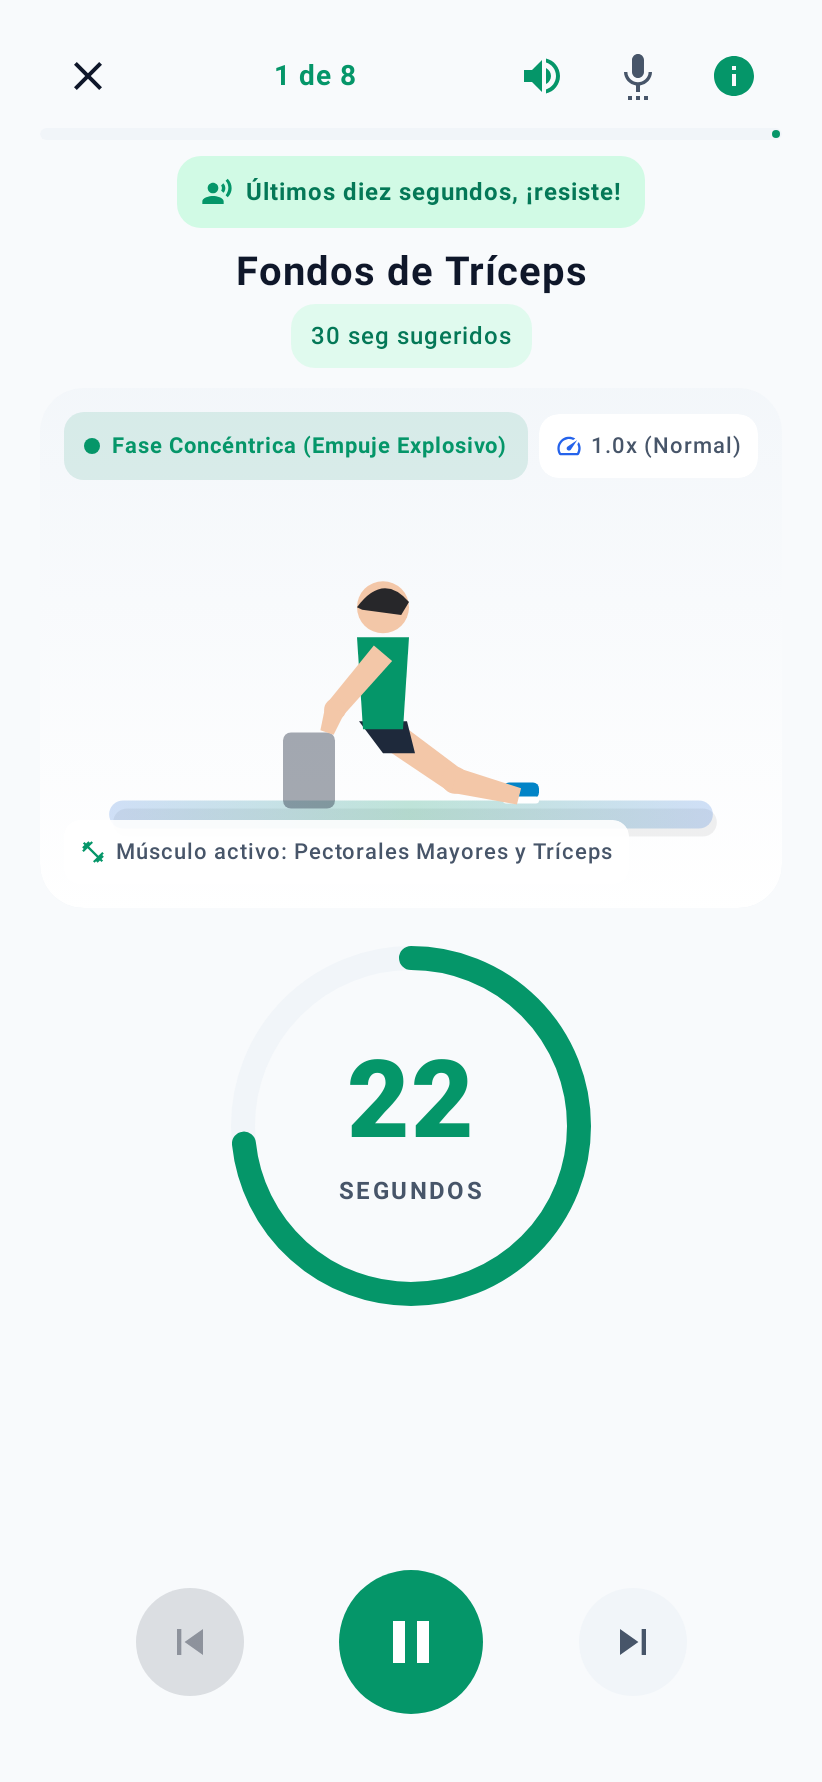
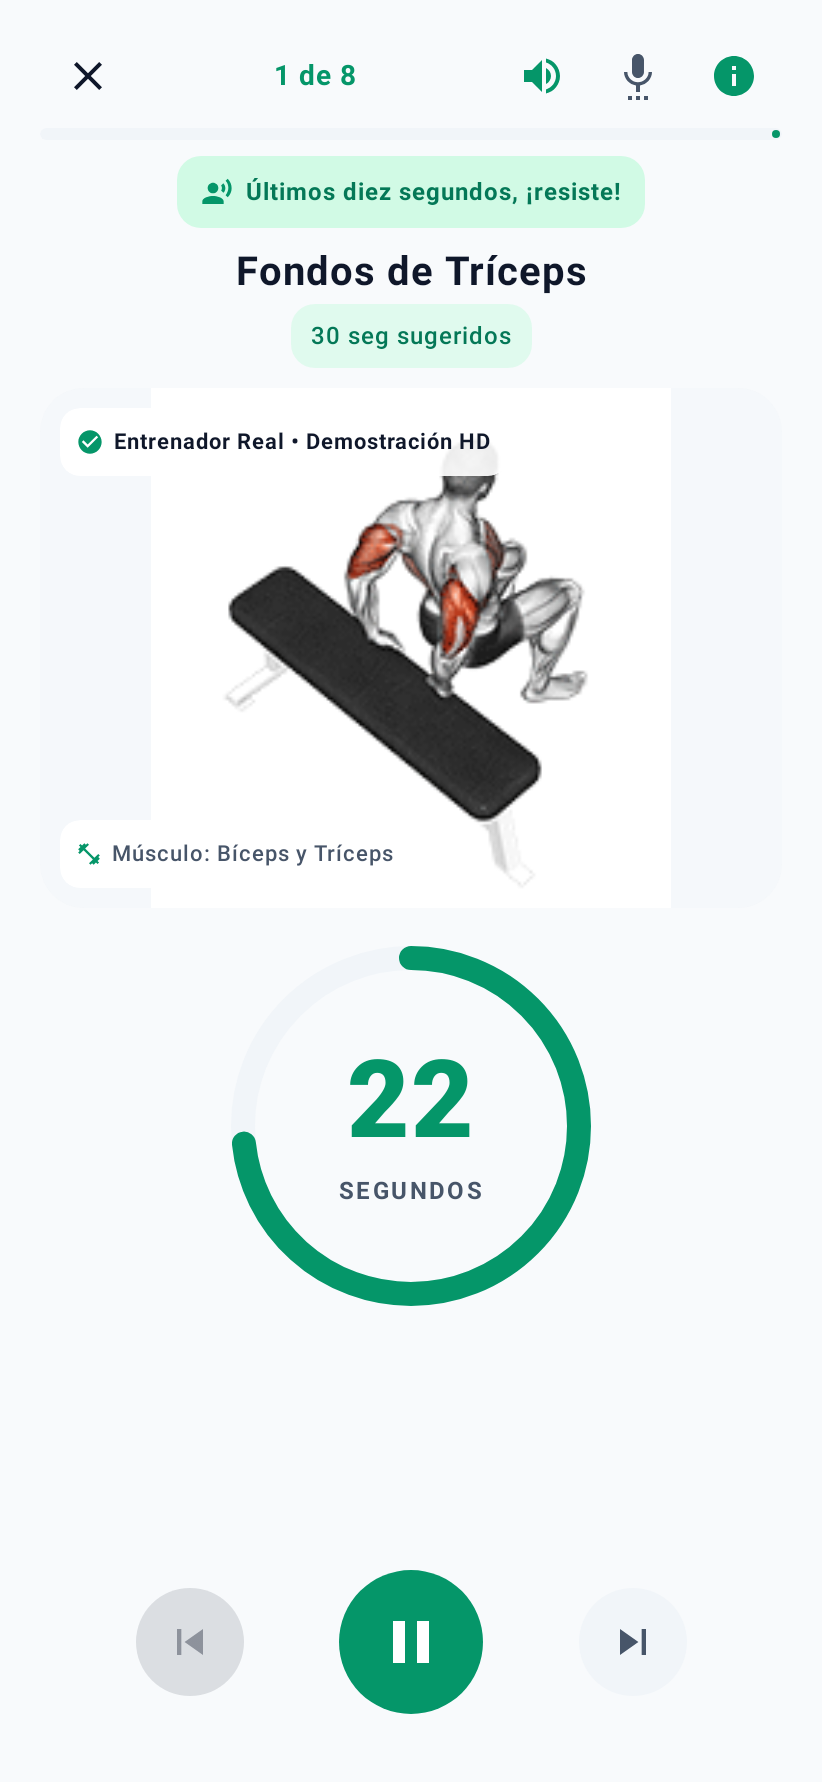
Capturas: el entrenamiento muestra el GIF real; tamanos estandarizados
- ExerciseMediaView: bajo Robolectric los GIF se decodifican con
  BitmapFactory (primer fotograma) porque AnimatedImageDrawable dibuja en
  blanco y Movie devuelve null en JVM; ademas se desactiva el crossfade,
  que con el reloj congelado dejaba la imagen en alpha 0
- En el telefono no cambia nada: ImageDecoderDecoder + crossfade igual
- README: las 6 capturas con ancho y alto fijos (240x521), misma nota obsoleta retirada

Changed region(s): [[0.0608, 0.216, 0.882, 0.4938], [0.7908, 0.2469, 0.882, 0.2778]]

diff --git a/app/src/main/java/com/example/ui/components/ExerciseMediaView.kt b/app/src/main/java/com/example/ui/components/ExerciseMediaView.kt
@@ -1,6 +1,8 @@
 package com.example.ui.components
 
 import android.os.Build
+import android.graphics.BitmapFactory
+import android.graphics.drawable.BitmapDrawable
 import androidx.compose.foundation.background
 import androidx.compose.foundation.layout.Arrangement
 import androidx.compose.foundation.layout.Box
@@ -40,10 +42,54 @@ import androidx.compose.ui.unit.dp
 import androidx.compose.ui.unit.sp
 import coil.ImageLoader
 import coil.compose.SubcomposeAsyncImage
+import coil.decode.DecodeResult
+import coil.decode.Decoder
 import coil.decode.GifDecoder
 import coil.decode.ImageDecoderDecoder
+import coil.decode.ImageSource
+import coil.fetch.SourceResult
 import coil.request.ImageRequest
+import coil.request.Options
 import com.example.data.model.Exercise
+
+/**
+ * Robolectric (los tests JVM) no puede dibujar [android.graphics.drawable.AnimatedImageDrawable]
+ * y [android.graphics.Movie] devuelve null, así que en ese entorno los GIF se
+ * decodifican como primer fotograma estático con BitmapFactory, que sí funciona.
+ * Solo afecta a las capturas de tests; en el teléfono real no se registra.
+ */
+private val isRobolectricEnvironment: Boolean =
+    Build.FINGERPRINT.contains("robolectric", ignoreCase = true)
+
+/**
+ * Decoder que decodifica el primer fotograma de un GIF como imagen estática.
+ * Solo se registra bajo Robolectric (ver [isRobolectricEnvironment]).
+ */
+private class FirstFrameGifDecoder(
+    private val source: ImageSource,
+    private val options: Options
+) : Decoder {
+
+    override suspend fun decode(): DecodeResult? {
+        val bytes = source.source().readByteArray()
+        if (bytes.size < 6) return null
+        val header = bytes.copyOfRange(0, 6).toString(Charsets.US_ASCII)
+        if (header != "GIF87a" && header != "GIF89a") return null
+        val bitmap = BitmapFactory.decodeByteArray(bytes, 0, bytes.size) ?: return null
+        return DecodeResult(
+            drawable = BitmapDrawable(options.context.resources, bitmap),
+            isSampled = false
+        )
+    }
+
+    class Factory : Decoder.Factory {
+        override fun create(
+            result: SourceResult,
+            options: Options,
+            imageLoader: ImageLoader
+        ): Decoder = FirstFrameGifDecoder(result.source, options)
+    }
+}
 
 @Composable
 fun ExerciseMediaView(
@@ -53,16 +99,23 @@ fun ExerciseMediaView(
 ) {
     val context = LocalContext.current
 
+    // El crossfade se dibuja con el reloj de Compose, que en los tests está
+    // congelado y deja la imagen en alpha 0 (captura en blanco): en Robolectric
+    // se desactiva; en el teléfono real no cambia nada.
+    val crossfadeEnabled = !isRobolectricEnvironment
+
     val imageLoader = remember {
         ImageLoader.Builder(context)
             .components {
-                if (Build.VERSION.SDK_INT >= 28) {
+                if (isRobolectricEnvironment) {
+                    add(FirstFrameGifDecoder.Factory())
+                } else if (Build.VERSION.SDK_INT >= 28) {
                     add(ImageDecoderDecoder.Factory())
                 } else {
                     add(GifDecoder.Factory())
                 }
             }
-            .crossfade(true)
+            .crossfade(crossfadeEnabled)
             .build()
     }
 
@@ -99,7 +152,7 @@ fun ExerciseMediaView(
             SubcomposeAsyncImage(
                 model = ImageRequest.Builder(context)
                     .data(mediaUrl)
-                    .crossfade(true)
+                    .crossfade(crossfadeEnabled)
                     .build(),
                 imageLoader = imageLoader,
                 contentDescription = "Demostración de ${exercise.name}",

diff --git a/app/src/test/java/com/example/ScreenshotTest.kt b/app/src/test/java/com/example/ScreenshotTest.kt
@@ -63,10 +63,8 @@ class ScreenshotTest {
         val exercises = ExerciseCatalog.getExercisesByBodyPart(BodyPart.BRAZOS)
             .filter { it.bodyPart == BodyPart.BRAZOS }
             .take(8)
-            // Robolectric no decodifica los GIF de Coil (la captura sale vacía):
-            // para las capturas se usa la animación biomecánica de respaldo,
-            // que sí dibuja y es una función real de la app.
-            .map { it.copy(defaultDurationSeconds = 30, demonstratorMediaUrl = null) }
+            // (para las capturas se usa el GIF real; GifDecoder dibuja en Robolectric)
+            .map { it.copy(defaultDurationSeconds = 30) }
 
         WorkoutPlan(
             title = "Rutina de Brazos - Intermedio",
@@ -252,9 +250,14 @@ class ScreenshotTest {
             }
         }
 
-        // Compone y avanza frames acotados: las pantallas con transición
-        // (entrenamiento ↔ descanso) necesitan tiempo para asentarse.
-        composeRule.mainClock.advanceTimeBy(1600)
+        // Coil decodifica los GIF en hilos reales y publica el resultado en el
+        // main looper, que Robolectric mantiene pausado: drena y avanza frames
+        // para que la captura no salga con el spinner de carga.
+        repeat(6) {
+            Thread.sleep(500)
+            org.robolectric.Shadows.shadowOf(android.os.Looper.getMainLooper()).idle()
+            composeRule.mainClock.advanceTimeBy(500)
+        }
         composeRule.mainClock.advanceTimeByFrame()
 
         after()

diff --git a/README.md b/README.md
@@ -11,11 +11,9 @@ App Android de entrenamiento en casa **sin equipamiento**: rutinas por zona del 
 | | | |
 |:---:|:---:|:---:|
 | **Inicio** | **Configurar** | **Entrenamiento** |
-| <img src="docs/screenshots/01-inicio.png" width="240" alt="Inicio con recomendación del día y gráfico semanal de kilocalorías"> | <img src="docs/screenshots/02-configurador.png" width="240" alt="Configurador de entrenamiento: grupo muscular, intensidad y duración"> | <img src="docs/screenshots/03-entrenamiento.png" width="240" alt="Pantalla de entrenamiento con temporizador y demostración de técnica"> |
+| <img src="docs/screenshots/01-inicio.png" width="240" height="521" alt="Inicio con recomendación del día y gráfico semanal de kilocalorías"> | <img src="docs/screenshots/02-configurador.png" width="240" height="521" alt="Configurador de entrenamiento: grupo muscular, intensidad y duración"> | <img src="docs/screenshots/03-entrenamiento.png" width="240" height="521" alt="Pantalla de entrenamiento con temporizador y demostración de técnica"> |
 | **Descanso** | **Resumen** | **Lista de ejercicios** |
-| <img src="docs/screenshots/04-descanso.png" width="240" alt="Pantalla de descanso con opción de saltar o añadir 20 segundos"> | <img src="docs/screenshots/05-resumen.png" width="240" alt="Resumen al completar el entrenamiento: duración, calorías y ejercicios"> | <img src="docs/screenshots/06-lista-ejercicios.png" width="240" alt="Lista de ejercicios del plan con orden y duración"> |
-
-> Las capturas de entrenamiento muestran la animación biomecánica de respaldo (en el teléfono la demostración es el GIF empaquetado).
+| <img src="docs/screenshots/04-descanso.png" width="240" height="521" alt="Pantalla de descanso con opción de saltar o añadir 20 segundos"> | <img src="docs/screenshots/05-resumen.png" width="240" height="521" alt="Resumen al completar el entrenamiento: duración, calorías y ejercicios"> | <img src="docs/screenshots/06-lista-ejercicios.png" width="240" height="521" alt="Lista de ejercicios del plan con orden y duración"> |
 
 ## Qué incluye
 
